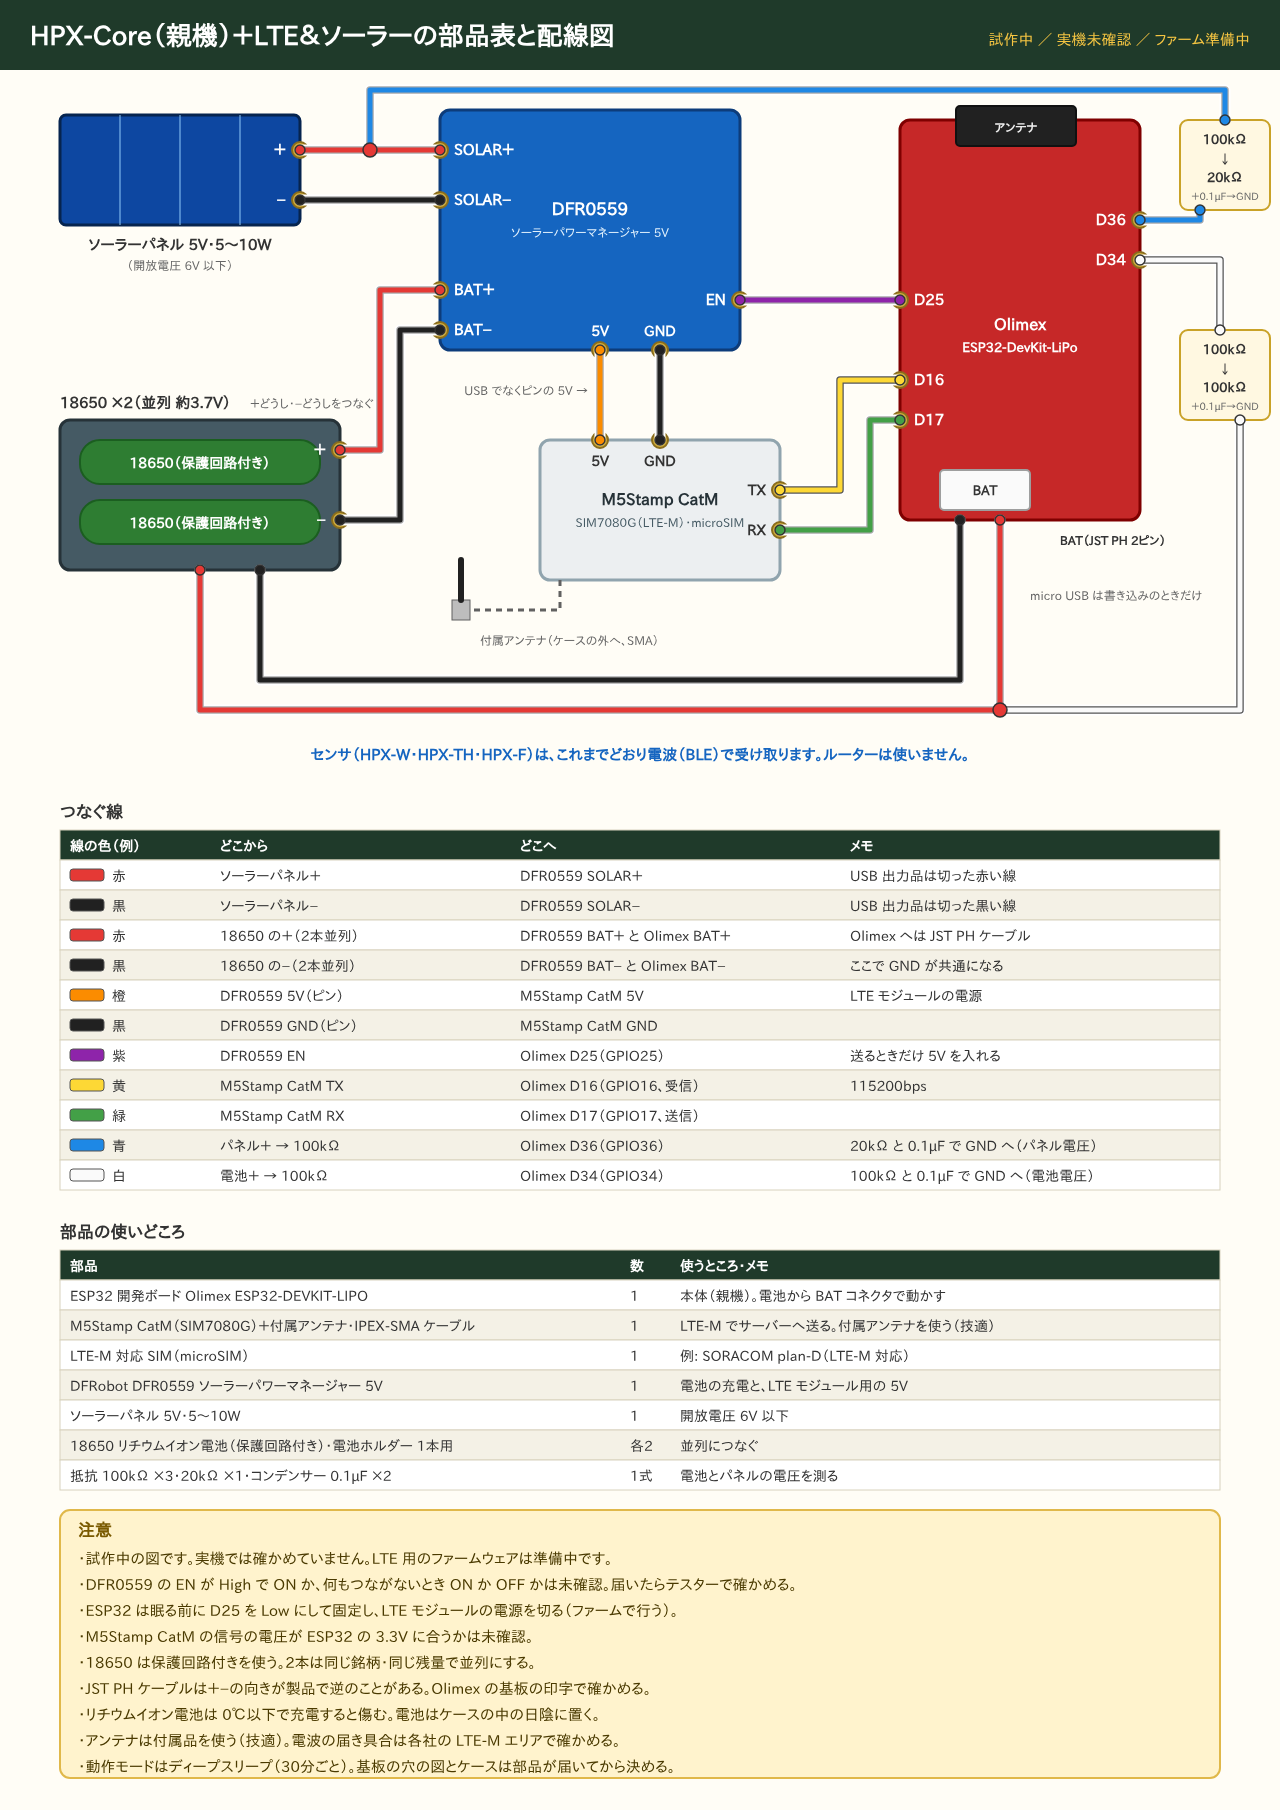
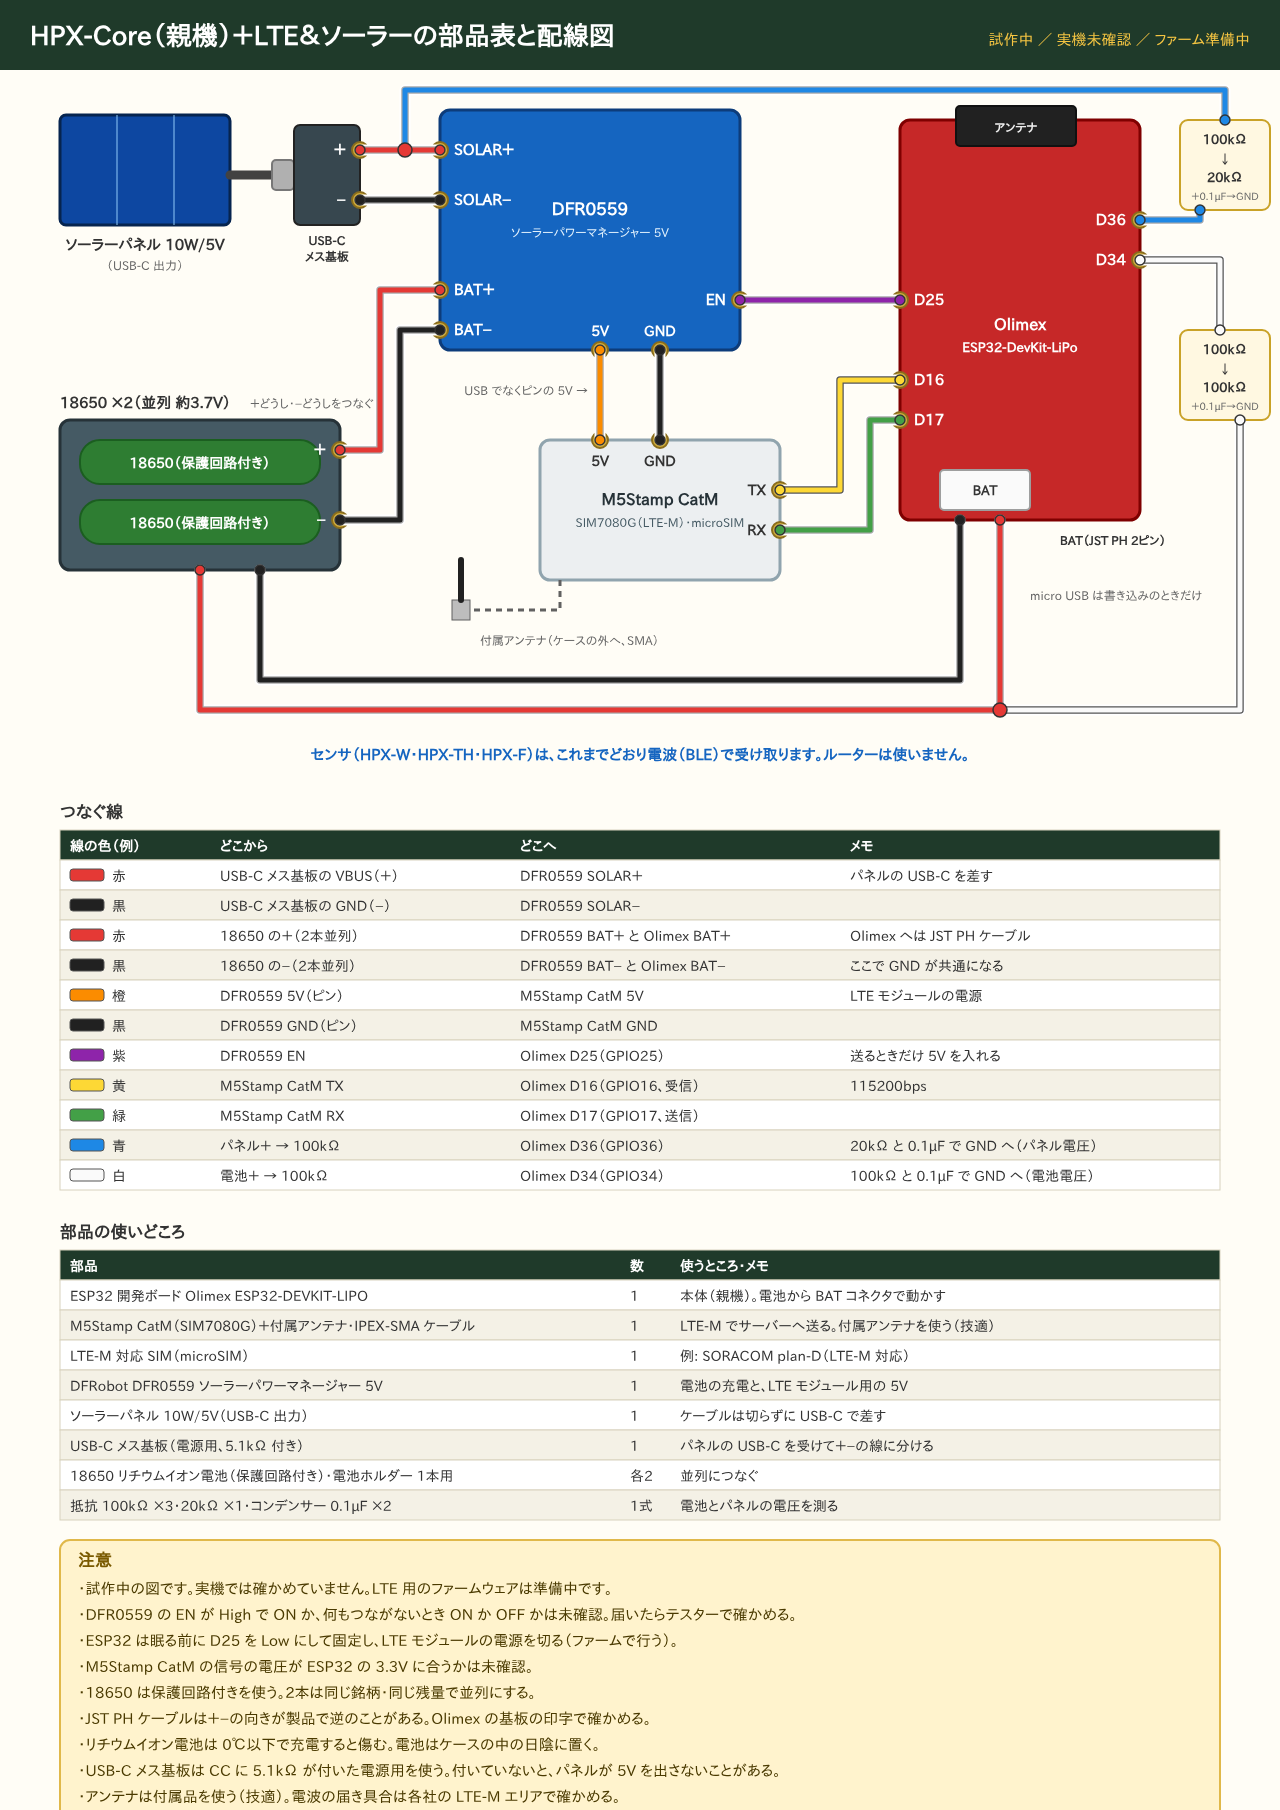
＋LTE＆ソーラー版: パネルは USB-C を切らずに USB-C メス基板で受ける形に
Claude-Session: https://claude.ai/code/session_01LCC9B3UNQtGk8mm67qSSxg

diff --git a/hardware/wiring/gen_wiring.py b/hardware/wiring/gen_wiring.py
@@ -538,13 +538,18 @@ def board_box(x, y, w, h, fill, stroke, name, sub):
     s.rect(x, y, w, h, fill, stroke, 10, 3)
     s.text(x + w / 2, y + h / 2 - 4, name, 16, "middle", "bold", "#fff")
     s.text(x + w / 2, y + h / 2 + 18, sub, 12, "middle", fill="#eee")
-# ソーラーパネル
-s.rect(60, 115, 240, 110, "#0d47a1", "#06244f", 6, 3)
-for i in range(1, 4):
-    s.add(f'<line x1="{60+i*60}" y1="115" x2="{60+i*60}" y2="225" stroke="#90caf9" stroke-width="1"/>')
-s.text(180, 250, "ソーラーパネル 5V・5〜10W", 15, "middle", "bold")
-s.text(180, 270, "（開放電圧 6V 以下）", 12, "middle", fill="#666")
-s.pad(300, 150, "＋", "R"); s.pad(300, 200, "−", "R")
+# ソーラーパネル (USB-C のケーブルを切らずに、USB-C メス基板で受ける)
+s.rect(60, 115, 170, 110, "#0d47a1", "#06244f", 6, 3)
+for i in range(1, 3):
+    s.add(f'<line x1="{60+i*57}" y1="115" x2="{60+i*57}" y2="225" stroke="#90caf9" stroke-width="1"/>')
+s.text(145, 250, "ソーラーパネル 10W/5V", 15, "middle", "bold")
+s.text(145, 270, "（USB-C 出力）", 12, "middle", fill="#666")
+s.add('<path d="M230,175 L272,175" stroke="#424242" stroke-width="9" stroke-linecap="round"/>')
+s.rect(272, 160, 22, 30, "#b0b0b0", "#777", 4)
+s.rect(294, 125, 66, 100, "#37474f", "#222", 6, 2)
+s.text(327, 245, "USB-C", 12, "middle", "bold")
+s.text(327, 261, "メス基板", 12, "middle", "bold")
+s.pad(360, 150, "＋", "R"); s.pad(360, 200, "−", "R")
 # DFR0559
 s.rect(440, 110, 300, 240, "#1565c0", "#0d3c7a", 10, 3)
 s.text(590, 215, "DFR0559", 17, "middle", "bold", "#fff")
@@ -606,8 +611,8 @@ def divider(x, y, top, bot):
 divider(1180, 120, "100kΩ", "20kΩ")
 divider(1180, 330, "100kΩ", "100kΩ")
 # 線
-s.wire([(300, 150), (440, 150)], "red")
-s.wire([(300, 200), (440, 200)], "black")
+s.wire([(360, 150), (440, 150)], "red")
+s.wire([(360, 200), (440, 200)], "black")
 s.wire([(340, 450), (380, 450), (380, 290), (440, 290)], "red")
 s.wire([(340, 520), (400, 520), (400, 330), (440, 330)], "black")
 s.wire([(200, 570), (200, 710), (1000, 710), (1000, 520)], "red")
@@ -617,16 +622,16 @@ s.wire([dfr["GND"], st["GND"]], "black")
 s.wire([dfr["EN"], ol["D25"]], "purple")
 s.wire([st["TX"], (840, 490), (840, 380), ol["D16"]], "yellow")
 s.wire([st["RX"], (870, 530), (870, 420), ol["D17"]], "green")
-s.wire([(370, 150), (370, 90), (1225, 90), (1225, 120)], "blue")
+s.wire([(405, 150), (405, 90), (1225, 90), (1225, 120)], "blue")
 s.wire([(1200, 210), (1200, 220), ol["D36"]], "blue")
 s.wire([(1000, 710), (1240, 710), (1240, 420)], "white")
 s.wire([(1220, 330), (1220, 260), ol["D34"]], "white")
-s.dot(370, 150, "red"); s.dot(1000, 710, "red")
+s.dot(405, 150, "red"); s.dot(1000, 710, "red")
 s.text(640, 760, "センサ（HPX-W・HPX-TH・HPX-F）は、これまでどおり電波（BLE）で受け取ります。ルーターは使いません。", 15, "middle", "bold", "#1565c0")
 LTE_WIRES = [
     ["線の色（例）", "どこから", "どこへ", "メモ"],
-    ["red", "ソーラーパネル＋", "DFR0559 SOLAR＋", "USB 出力品は切った赤い線"],
-    ["black", "ソーラーパネル−", "DFR0559 SOLAR−", "USB 出力品は切った黒い線"],
+    ["red", "USB-C メス基板の VBUS（＋）", "DFR0559 SOLAR＋", "パネルの USB-C を差す"],
+    ["black", "USB-C メス基板の GND（−）", "DFR0559 SOLAR−", ""],
     ["red", "18650 の＋（2本並列）", "DFR0559 BAT＋ と Olimex BAT＋", "Olimex へは JST PH ケーブル"],
     ["black", "18650 の−（2本並列）", "DFR0559 BAT− と Olimex BAT−", "ここで GND が共通になる"],
     ["orange", "DFR0559 5V（ピン）", "M5Stamp CatM 5V", "LTE モジュールの電源"],
@@ -644,7 +649,8 @@ LTE_ROWS = [
     ["M5Stamp CatM（SIM7080G）＋付属アンテナ・IPEX-SMA ケーブル", "1", "LTE-M でサーバーへ送る。付属アンテナを使う（技適）"],
     ["LTE-M 対応 SIM（microSIM）", "1", "例: SORACOM plan-D（LTE-M 対応）"],
     ["DFRobot DFR0559 ソーラーパワーマネージャー 5V", "1", "電池の充電と、LTE モジュール用の 5V"],
-    ["ソーラーパネル 5V・5〜10W", "1", "開放電圧 6V 以下"],
+    ["ソーラーパネル 10W/5V（USB-C 出力）", "1", "ケーブルは切らずに USB-C で差す"],
+    ["USB-C メス基板（電源用、5.1kΩ 付き）", "1", "パネルの USB-C を受けて＋−の線に分ける"],
     ["18650 リチウムイオン電池（保護回路付き）・電池ホルダー 1本用", "各2", "並列につなぐ"],
     ["抵抗 100kΩ ×3・20kΩ ×1・コンデンサー 0.1µF ×2", "1式", "電池とパネルの電圧を測る"],
 ]
@@ -657,6 +663,7 @@ LTE_NOTES = [
     "・18650 は保護回路付きを使う。2本は同じ銘柄・同じ残量で並列にする。",
     "・JST PH ケーブルは＋−の向きが製品で逆のことがある。Olimex の基板の印字で確かめる。",
     "・リチウムイオン電池は 0℃以下で充電すると傷む。電池はケースの中の日陰に置く。",
+    "・USB-C メス基板は CC に 5.1kΩ が付いた電源用を使う。付いていないと、パネルが 5V を出さないことがある。",
     "・アンテナは付属品を使う（技適）。電波の届き具合は各社の LTE-M エリアで確かめる。",
     "・動作モードはディープスリープ（30分ごと）。基板の穴の図とケースは部品が届いてから決める。",
 ]

diff --git a/hardware/wiring/README.md b/hardware/wiring/README.md
@@ -13,7 +13,7 @@
 | HPX-Core ＋有線LAN | [HPX-Core_LAN_pcb.png](HPX-Core_LAN_pcb.png) (6×8cm 基板に組む図)・[HPX-Core_LAN_wiring.png](HPX-Core_LAN_wiring.png) (線の対応) | ELEGOO ESP-32 + W5500 (ACEIRMC): SCK=D18, MI=D4, MO=D23, CS=D5, INT=TX2(GPIO17), RST=RX2(GPIO16), V=3V3, G=GND (HPX_Core v1.20 以降、接続方法を「有線LAN」に)。USB 電源 |
 | HPX-Core ＋有線LAN＆ソーラーシステムチェック | [HPX-Core_LANV_pcb.png](HPX-Core_LANV_pcb.png) (6×8cm 基板、ケース PFF10-4-10W) | 「＋有線LAN」と同じ ESP-32・W5500 に、パネル＋ → 100kΩ/8.2kΩ → D34、バッテリー＋ → 100kΩ/15kΩ → D35、BP5293-50 (バッテリー → 5V → VIN)、端子台 3極 (マイナス・バッテリー＋・パネル＋) を足す。USB ではなくバッテリーで動かす (HPX_Core v1.22 以降、動作設定で「バッテリー・パネルの電圧を測る」) |
 | HPX-Core ＋防水＆電池駆動 | [HPX-Core_BAT_pcb.png](HPX-Core_BAT_pcb.png) (ケース用基板 PCB36-47 に組む図) | Olimex ESP32-DEVKIT-LIPO の 5V (左の列のピン19) ← 単三リチウム×3 の＋、GND (左の列のピン14) ← −。BAT コネクタは使わない。動作モードはディープスリープ |
-| HPX-Core ＋LTE＆ソーラー (試作中) | [HPX-Core_LTE_wiring.png](HPX-Core_LTE_wiring.png) (線の対応だけ。基板の図は部品が届いてから) | Olimex ESP32-DEVKIT-LIPO + M5Stamp CatM (SIM7080G、TX→D16・RX←D17、5V/GND は DFR0559 の 5V ピン) + DFRobot DFR0559 (EN←D25、送るときだけ ON) + 18650×2 並列 (DFR0559 BAT と Olimex BAT へ) + 5V パネル (開放電圧 6V 以下)。電池＋ → 100kΩ/100kΩ → D34、パネル＋ → 100kΩ/20kΩ → D36。ファームはまだ無い |
+| HPX-Core ＋LTE＆ソーラー (試作中) | [HPX-Core_LTE_wiring.png](HPX-Core_LTE_wiring.png) (線の対応だけ。基板の図は部品が届いてから) | Olimex ESP32-DEVKIT-LIPO + M5Stamp CatM (SIM7080G、TX→D16・RX←D17、5V/GND は DFR0559 の 5V ピン) + DFRobot DFR0559 (EN←D25、送るときだけ ON) + 18650×2 並列 (DFR0559 BAT と Olimex BAT へ) + 10W/5V パネル (USB-C のまま USB-C メス基板 (5.1kΩ 付き) で受けて DFR0559 SOLAR へ)。電池＋ → 100kΩ/100kΩ → D34、パネル＋ → 100kΩ/20kΩ → D36。ファームはまだ無い |
 | HPX-B (バッテリー電圧、試作中) | [HPX-B_pcb.png](HPX-B_pcb.png) (6×8cm 基板、ケース タカチ PFF10-4-10W) | バッテリー＋ → 100kΩ/20kΩ → D1(A1)、パネル＋ → 100kΩ/10kΩ → D0(A0)、三端子 DCDC レギュレーター BP5293-50 (ROHM、入力 7〜26V) → 5V、入力側 10µF。端子台 3極 (パネル＋・マイナス・バッテリー＋)、ヒューズ 1A×2 は線の途中。ファームはまだ無い |
 
 部品表は [部品表.md](部品表.md) にあります。
